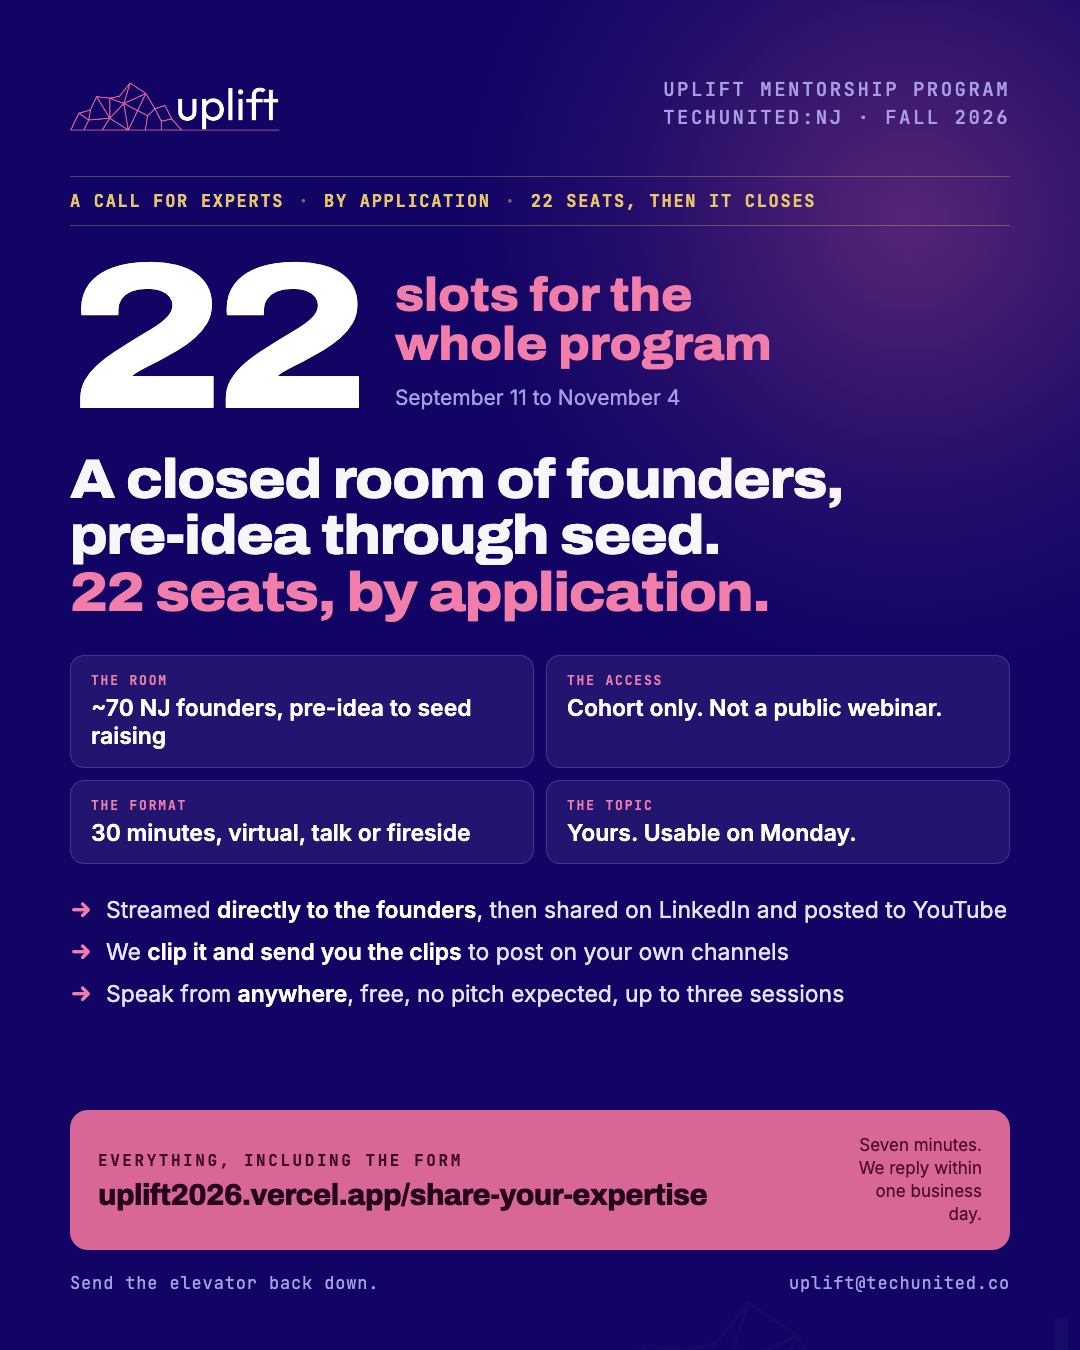
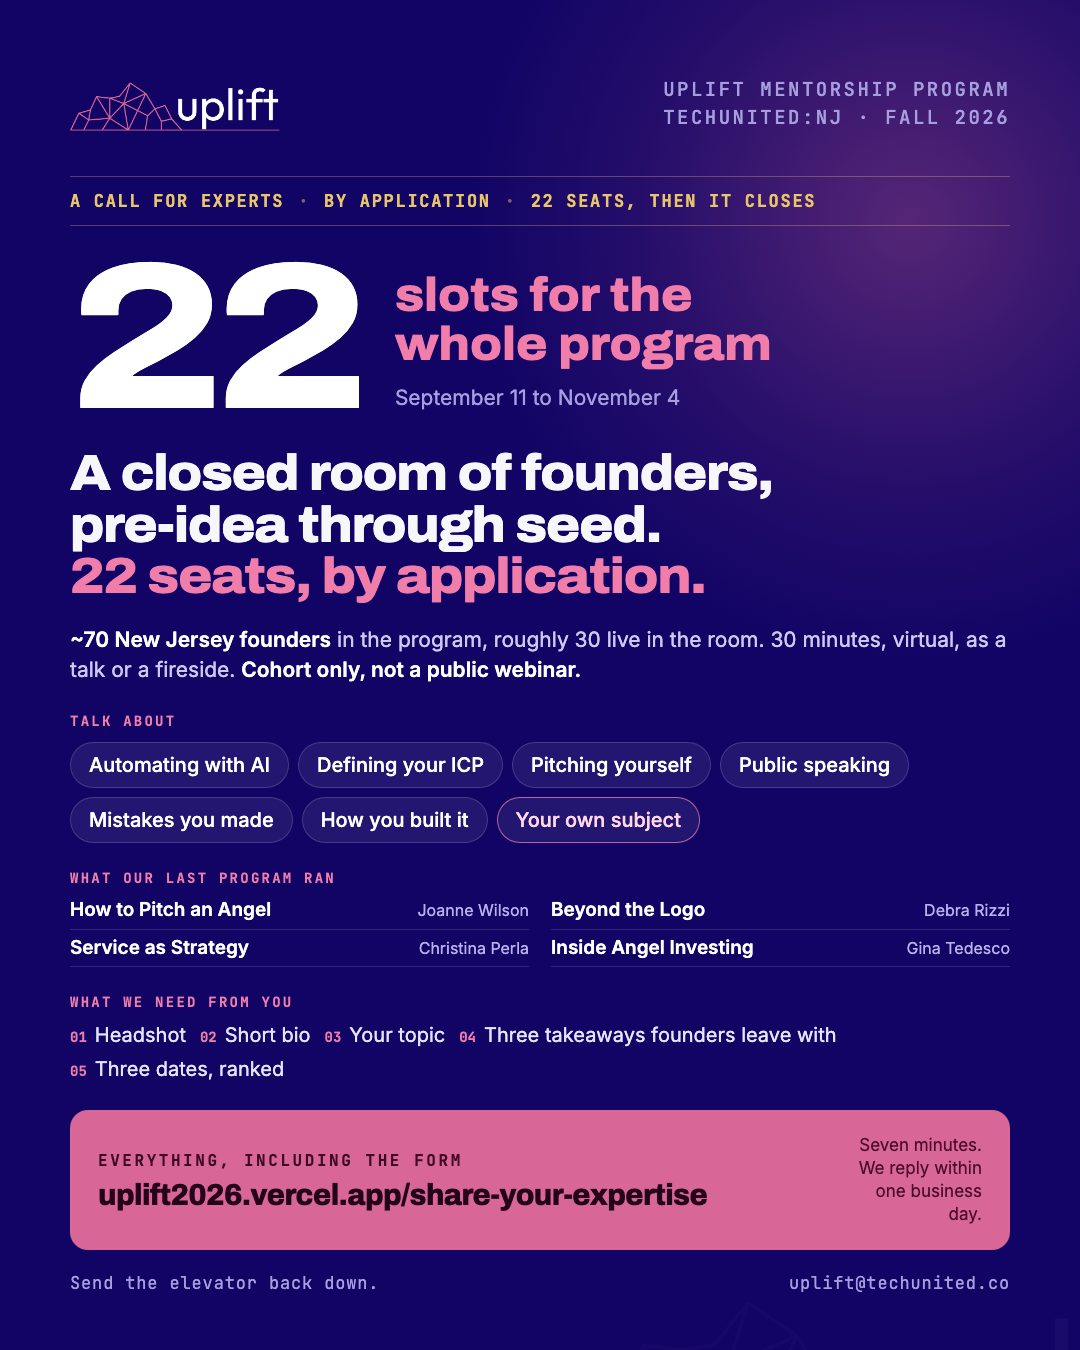
Post graphic: what we are looking for, not what you get
Reworked per Kennedy: the speaker-benefit bullets, "speak from anywhere" and
"no pitch expected" are all out. The last one was actively confusing, since we
do want people to propose a session.

What replaces them is what the graphic was missing: the topics someone could
speak on, the real sessions our last program ran with their speakers, and the
five things the application actually asks for. Room, format and access
compress into one meta line so those three blocks fit.

Verified against the canvas: footer bottom at 1294 of 1350, nothing clipped.

Changed region(s): [[0.0611, 0.3111, 0.9472, 0.8089]]

diff --git a/public/uplift-expert-sessions-post.html b/public/uplift-expert-sessions-post.html
@@ -89,29 +89,44 @@
 
   h1 {
     font-family: 'Archivo', sans-serif; font-weight: 800;
-    font-size: 55px; line-height: 1.02; letter-spacing: -0.02em;
+    font-size: 50px; line-height: 1.03; letter-spacing: -0.02em;
     font-variation-settings: 'wdth' 110;
-    margin-top: 30px; text-wrap: balance;
+    margin-top: 26px; text-wrap: balance;
   }
   h1 em { font-style: normal; color: var(--pink-bright); }
 
-  .facts { display: grid; grid-template-columns: repeat(2, 1fr); gap: 12px; margin-top: 34px; }
-  .fact {
-    background: rgba(255,255,255,0.065);
-    border: 1px solid rgba(255,255,255,0.15);
-    border-radius: 14px; padding: 16px 20px;
-    display: flex; flex-direction: column; gap: 5px;
+  .meta {
+    margin-top: 22px; font-size: 21px; line-height: 1.45; color: #cfc8f2;
   }
-  .fact .k {
-    font-family: 'JetBrains Mono', monospace; font-size: 13px; font-weight: 700;
-    letter-spacing: 0.14em; text-transform: uppercase; color: var(--pink-bright);
-  }
-  .fact .v { font-size: 23px; font-weight: 600; color: #fff; line-height: 1.24; }
+  .meta b { color: #fff; font-weight: 600; }
 
-  .gets { margin-top: 32px; display: flex; flex-direction: column; gap: 12px; }
-  .get { display: flex; gap: 14px; align-items: baseline; font-size: 23px; line-height: 1.3; color: #e6e2fa; }
-  .get b { color: #fff; font-weight: 600; }
-  .get .tick { color: var(--pink-bright); font-weight: 800; flex: none; }
+  .block { margin-top: 26px; }
+  .blabel {
+    font-family: 'JetBrains Mono', monospace; font-size: 14px; font-weight: 700;
+    letter-spacing: 0.16em; text-transform: uppercase; color: var(--pink-bright);
+    margin-bottom: 12px;
+  }
+  .chips { display: flex; flex-wrap: wrap; gap: 9px; }
+  .chip {
+    background: rgba(255,255,255,0.07); border: 1px solid rgba(255,255,255,0.16);
+    border-radius: 999px; padding: 10px 18px; font-size: 20px; font-weight: 500; color: #fff;
+  }
+  .chip.open { border-color: rgba(240,125,170,0.75); color: #ffd7e7; }
+
+  .past { display: grid; grid-template-columns: 1fr 1fr; gap: 7px 22px; }
+  .prow {
+    display: flex; justify-content: space-between; align-items: baseline; gap: 12px;
+    border-bottom: 1px solid rgba(255,255,255,0.13); padding-bottom: 7px;
+  }
+  .prow .pt { font-size: 19px; font-weight: 600; color: #fff; line-height: 1.2; }
+  .prow .pw { font-size: 16px; color: #b9b0ec; white-space: nowrap; }
+
+  .need { display: flex; flex-wrap: wrap; gap: 10px 14px; font-size: 20px; color: #e6e2fa; }
+  .need span { display: flex; align-items: baseline; gap: 8px; }
+  .need .n {
+    font-family: 'JetBrains Mono', monospace; font-size: 14px; font-weight: 700;
+    color: var(--pink-bright);
+  }
 
   .spacer { flex: 1; }
 
@@ -168,17 +183,41 @@
 
   <h1>A closed room of founders,<br>pre-idea through seed.<br><em>22 seats, by application.</em></h1>
 
-  <div class="facts">
-    <div class="fact"><span class="k">The room</span><span class="v">~70 NJ founders, pre-idea to seed raising</span></div>
-    <div class="fact"><span class="k">The access</span><span class="v">Cohort only. Not a public webinar.</span></div>
-    <div class="fact"><span class="k">The format</span><span class="v">30 minutes, virtual, talk or fireside</span></div>
-    <div class="fact"><span class="k">The topic</span><span class="v">Yours. Usable on Monday.</span></div>
+  <p class="meta"><b>~70 New Jersey founders</b> in the program, roughly 30 live in the room.
+    30 minutes, virtual, as a talk or a fireside. <b>Cohort only, not a public webinar.</b></p>
+
+  <div class="block">
+    <p class="blabel">Talk about</p>
+    <div class="chips">
+      <span class="chip">Automating with AI</span>
+      <span class="chip">Defining your ICP</span>
+      <span class="chip">Pitching yourself</span>
+      <span class="chip">Public speaking</span>
+      <span class="chip">Mistakes you made</span>
+      <span class="chip">How you built it</span>
+      <span class="chip open">Your own subject</span>
+    </div>
   </div>
 
-  <div class="gets">
-    <div class="get"><span class="tick">→</span><span>Streamed <b>directly to the founders</b>, then shared on LinkedIn and posted to YouTube</span></div>
-    <div class="get"><span class="tick">→</span><span>We <b>clip it and send you the clips</b> to post on your own channels</span></div>
-    <div class="get"><span class="tick">→</span><span>Speak from <b>anywhere</b>, free, no pitch expected, up to three sessions</span></div>
+  <div class="block">
+    <p class="blabel">What our last program ran</p>
+    <div class="past">
+      <div class="prow"><span class="pt">How to Pitch an Angel</span><span class="pw">Joanne Wilson</span></div>
+      <div class="prow"><span class="pt">Beyond the Logo</span><span class="pw">Debra Rizzi</span></div>
+      <div class="prow"><span class="pt">Service as Strategy</span><span class="pw">Christina Perla</span></div>
+      <div class="prow"><span class="pt">Inside Angel Investing</span><span class="pw">Gina Tedesco</span></div>
+    </div>
+  </div>
+
+  <div class="block">
+    <p class="blabel">What we need from you</p>
+    <div class="need">
+      <span><span class="n">01</span> Headshot</span>
+      <span><span class="n">02</span> Short bio</span>
+      <span><span class="n">03</span> Your topic</span>
+      <span><span class="n">04</span> Three takeaways founders leave with</span>
+      <span><span class="n">05</span> Three dates, ranked</span>
+    </div>
   </div>
 
   <div class="spacer"></div>
